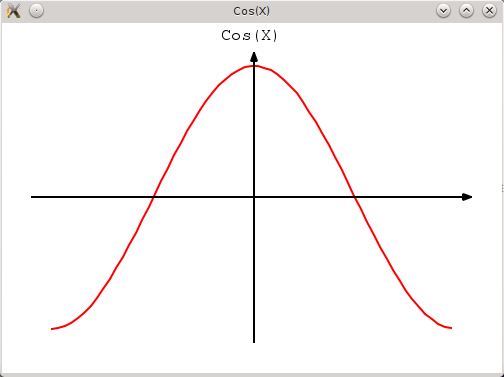
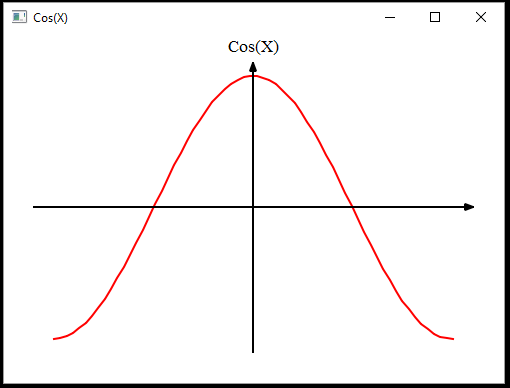
Added Windows demo and remove initializer_list for old Visual Studio

diff --git a/src/Ksl/Array.h b/src/Ksl/Array.h
@@ -53,7 +53,9 @@ public:
     Array(size_type n, const data_type &value);
     Array(const Array &that);
     Array(Array &&that);
+#if !defined(_MSC_VER) || _MSC_VER > 1700
     Array(std::initializer_list<data_type> initlist);
+#endif
 
     ~Array();
 
@@ -160,6 +162,7 @@ Array<1,T>::Array(Array &&that)
 }
 
 
+#if !defined(_MSC_VER) || _MSC_VER > 1700
 template <typename T>
 Array<1,T>::Array(std::initializer_list<data_type> initlist)
 {
@@ -172,6 +175,7 @@ Array<1,T>::Array(std::initializer_list<data_type> initlist)
    else
       m_data = nullptr;
 }
+#endif
 
 
 template <typename T>
@@ -298,8 +302,10 @@ public:
     Array(size_type m, size_type n, const data_type &value);
     Array(const Array &that);
     Array(Array &&that);
+#if !defined(_MSC_VER) || _MSC_VER > 1700
     Array(std::initializer_list<
              std::initializer_list<data_type> >  initlist);
+#endif
 
     ~Array();
 
@@ -413,6 +419,7 @@ Array<2,T>::Array(Array &&that)
 }
 
 
+#if !defined(_MSC_VER) || _MSC_VER > 1700
 template <typename T>
 Array<2,T>::Array(std::initializer_list<
                      std::initializer_list<data_type> > initlist)
@@ -437,6 +444,7 @@ Array<2,T>::Array(std::initializer_list<
     else
        m_data = nullptr;
 }
+#endif
 
 
 template <typename T>

diff --git a/demos/sine.cpp b/demos/sine.cpp
@@ -8,26 +8,26 @@ int main(int argc, char *argv[])
 {
     QApplication app(argc,argv);
 
-    auto x = linspace(-M_PI, M_PI, 0.1);
-
-    ChartLinscale scale1;
-    scale1.add(new SeriesPlot(x, sin(x), "Sin(X)", Qt::blue));
-    ChartView view1("Sin(X)");
-    view1.chart()->add(scale1);
+    auto x = linspace(-M_PI, M_PI+0.1, 0.1);
 
     ChartLinscale scale2;
     scale2.add(new SeriesPlot(x, cos(x), "Cos(X)", Qt::red));
     ChartView view2("Cos(X)");
     view2.chart()->add(scale2);
+    view2.show();
+
+/*
+    ChartLinscale scale1;
+    scale1.add(new SeriesPlot(x, sin(x), "Sin(X)", Qt::blue));
+    ChartView view1("Sin(X)");
+    view1.chart()->add(scale1);
+    view1.show();
 
     ChartLinscale scale3;
     scale3.add(new SeriesPlot(x, tan(x), "Tan(X)", Qt::green));
     ChartView view3("Tan(X)");
     view3.chart()->add(scale3);
-
-    view1.show();
-    view2.show();
     view3.show();
-
+*/
     return app.exec();
 }

diff --git a/README.md b/README.md
@@ -21,10 +21,11 @@ is not an official KDE component.
 
 The figures below ware created with KSL's chart widget:
 
-   * Cossine function
+   * Scattered data points. On Linux/KDE
+
+![](https://github.com/elvismt/Ksl/blob/master/demos/scatter.png)
+
+   * Cossine function. On Windows(R)
 
 ![](https://github.com/elvismt/Ksl/blob/master/demos/cossine.png)
 
-   * Scattered data points
-
-![](https://github.com/elvismt/Ksl/blob/master/demos/scatter.png)
